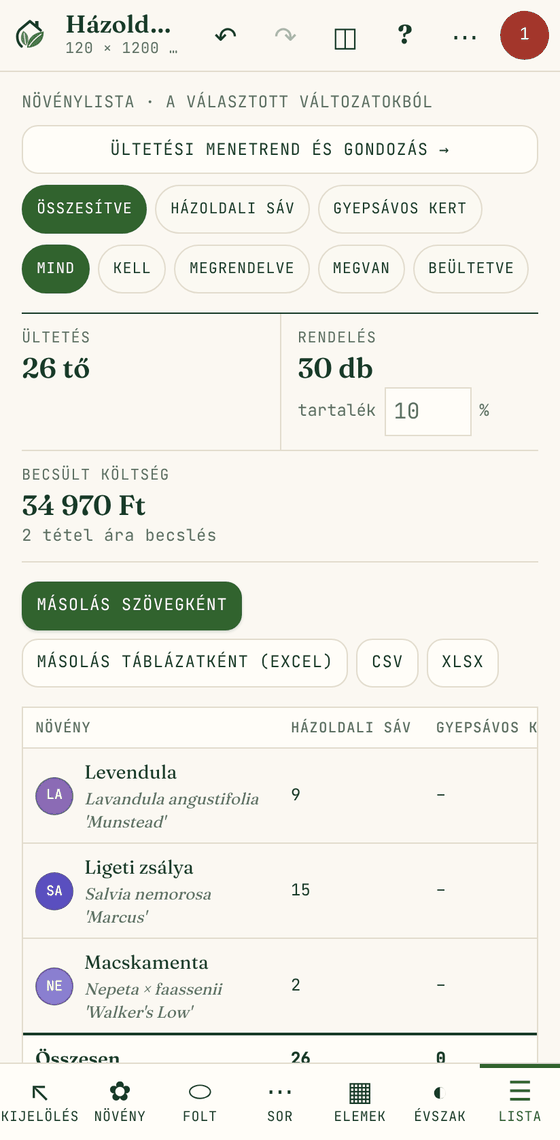
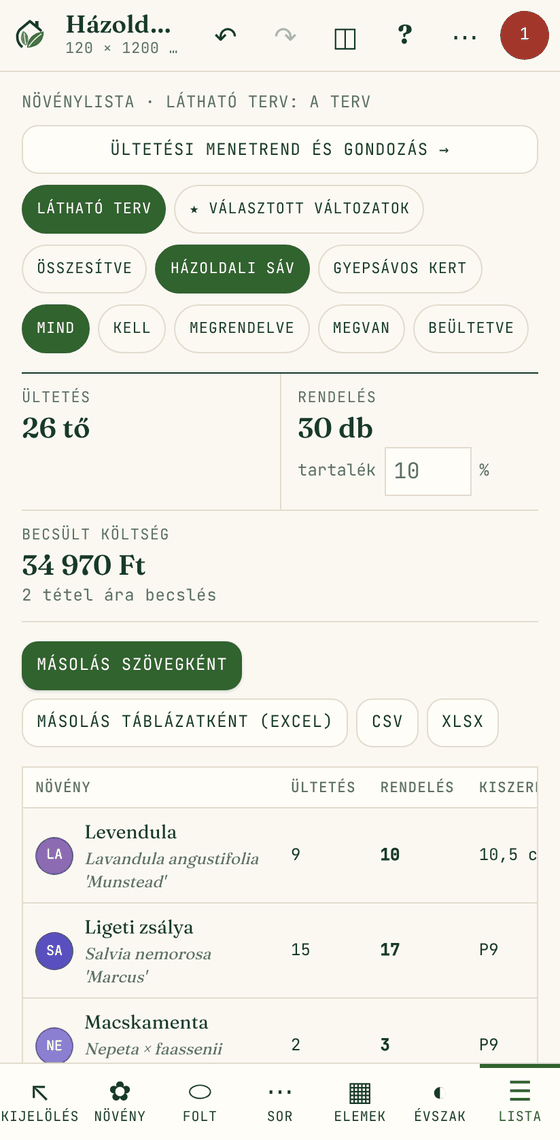
Plant list follows the plan on screen
The List now opens on the current area and counts its shown (edited) variant; the header names it. "★ Chosen variants" switches back to the chosen ones (used for printing); Combined/per-area filters still apply to both.

Claude-Session: https://claude.ai/code/session_015K5A3DUiTyajYS3QgPypRS

diff --git a/src/ui/ListView.tsx b/src/ui/ListView.tsx
@@ -3,7 +3,7 @@ import { bomTable, buildBom, fmtFt, fmtInt, STATUSES, toCsv, toHtmlTable, toText
 import { buildXlsx } from '../engine/xlsx';
 import { JUGLONE_LABEL, plantName, WATER_LABEL } from '../model/plants';
 import type { ItemStatus } from '../model/types';
-import { useProject } from '../store/projectStore';
+import { activeVariant, selectCurrentArea, useProject } from '../store/projectStore';
 import { useUi } from '../store/uiStore';
 import { downloadBlob, downloadText } from './download';
 import { PlantChip } from './PlantChip';
@@ -12,18 +12,22 @@ import { copy } from './clipboard';
 import { t } from '../i18n';
 
 type Scope = 'all' | string;
+type Source = 'shown' | 'chosen';
 
 /** Plant list and shopping (SPEC §4.6). */
 export function ListView() {
   const project = useProject((s) => s.project)!;
-  const [scope, setScope] = useState<Scope>('all');
+  const current = useProject(selectCurrentArea);
+  // Default: the plan on screen – the current area's shown variant.
+  const [scope, setScope] = useState<Scope>(current?.id ?? 'all');
+  const [source, setSource] = useState<Source>('shown');
   const [status, setStatus] = useState<ItemStatus | null>(null);
   const [toast, setToast] = useState('');
   const [fallback, setFallback] = useState('');
   const taRef = useRef<HTMLTextAreaElement>(null);
 
   const areaIds = scope === 'all' ? project.areas.map((a) => a.id) : [scope];
-  const bom = useMemo(() => buildBom(project, areaIds, status), [project, scope, status]);
+  const bom = useMemo(() => buildBom(project, areaIds, status, source), [project, scope, status, source]);
   const table = useMemo(() => bomTable(bom), [bom]);
   const title = scope === 'all' ? project.name : (project.areas.find((a) => a.id === scope)?.name ?? '');
   const fileBase = `${t('novenylista', 'plant-list')}-${title.normalize('NFD').replace(/[̀-ͯ]/g, '').replace(/[^a-zA-Z0-9]+/g, '-').toLowerCase()}`;
@@ -41,7 +45,7 @@ export function ListView() {
   const xlsx = () => {
     const sheets = [{ name: scope === 'all' ? t('Összesen', 'Total') : title, rows: table }];
     if (scope === 'all' && project.areas.length > 1)
-      for (const a of project.areas) sheets.push({ name: a.name, rows: bomTable(buildBom(project, [a.id], status)) });
+      for (const a of project.areas) sheets.push({ name: a.name, rows: bomTable(buildBom(project, [a.id], status, source)) });
     downloadBlob(`${fileBase}.xlsx`, buildXlsx(sheets), 'application/vnd.openxmlformats-officedocument.spreadsheetml.sheet');
   };
 
@@ -58,14 +62,29 @@ export function ListView() {
   };
 
   const perArea = bom.areas.length > 1;
+  const scoped = scope === 'all' ? null : project.areas.find((a) => a.id === scope);
+  const eyebrow =
+    source === 'shown'
+      ? scoped
+        ? t(`Növénylista · látható terv: ${activeVariant(scoped).name}`, `Plant list · plan on screen: ${activeVariant(scoped).name}`)
+        : t('Növénylista · a látható tervekből', 'Plant list · from the plans on screen')
+      : t('Növénylista · a választott változatokból', 'Plant list · from the chosen variants');
 
   return (
     <div className="listview">
       <header className="lv-head">
-        <div className="eyebrow">{t('Növénylista · a választott változatokból', 'Plant list · from the chosen variants')}</div>
+        <div className="eyebrow">{eyebrow}</div>
         <button type="button" className="btn btn-small" onClick={() => useUi.getState().setPage('schedule')}>
           {t('Ültetési menetrend és gondozás →', 'Planting schedule and care →')}
         </button>
+        <div className="seg" role="group" aria-label={t('Melyik változat', 'Which variant')}>
+          <ScopeChip on={source === 'shown'} onClick={() => setSource('shown')}>
+            {t('Látható terv', 'Plan on screen')}
+          </ScopeChip>
+          <ScopeChip on={source === 'chosen'} onClick={() => setSource('chosen')}>
+            {t('★ Választott változatok', '★ Chosen variants')}
+          </ScopeChip>
+        </div>
         <div className="seg" role="group" aria-label={t('Terület', 'Area')}>
           <ScopeChip on={scope === 'all'} onClick={() => setScope('all')}>
             {t('Összesítve', 'Combined')}

diff --git a/tests/e2e/variants.spec.ts b/tests/e2e/variants.spec.ts
@@ -28,9 +28,11 @@ test('variants: copy, edit B, choose, compare', async ({ page }) => {
   await page.mouse.click(b.x + 60 * cm, b.y + 700 * cm);
   await expect(page.locator('.warn-badge')).toHaveText('1');
 
-  // List still shows A (chosen): 11 plants.
+  // The list shows the plan on screen (B, 12 plants); the chosen variants give A (11).
   await page.getByRole('button', { name: 'Lista', exact: true }).click();
-  await page.getByRole('button', { name: 'Házoldali sáv', exact: true }).click();
+  await expect(page.locator('.lv-head .eyebrow')).toContainText('látható terv: B terv');
+  await expect(page.locator('.lv-sum')).toContainText('12 tő');
+  await page.getByRole('button', { name: '★ Választott változatok' }).click();
   await expect(page.locator('.lv-sum')).toContainText('11 tő');
 
   await page.getByRole('button', { name: 'Kijelölés' }).click();
@@ -51,6 +53,7 @@ test('variants: copy, edit B, choose, compare', async ({ page }) => {
   await page.getByRole('button', { name: 'Bezárás' }).last().click();
   await expect(pill).toContainText('B terv ★');
   await page.getByRole('button', { name: 'Lista', exact: true }).click();
+  await page.getByRole('button', { name: '★ Választott változatok' }).click();
   await page.getByRole('button', { name: 'Házoldali sáv', exact: true }).click();
   await expect(page.locator('.lv-sum')).toContainText('12 tő');
 });

diff --git a/src/engine/bom.ts b/src/engine/bom.ts
@@ -36,14 +36,20 @@ export const orderQty = (planted: number, reservePct: number, isTree?: boolean) 
 /** Items of the chosen variant of an area – the plan the list and print are made from. */
 export const chosenItems = (a: Area): PlacedItem[] => (a.variants.find((v) => v.id === a.chosenVariantId) ?? a.variants[0])?.items ?? [];
 
+/** Items of the variant shown on the plan (the edited one). */
+export const shownItems = (a: Area): PlacedItem[] =>
+  (a.variants.find((v) => v.id === (a.activeVariantId ?? a.chosenVariantId)) ?? a.variants[0])?.items ?? [];
+
 /**
  * @param areaIds areas in scope (all when omitted)
  * @param status only count items with this status
+ * @param source 'chosen' variants (default, for print and orders) or the 'shown' ones on the plan
  */
-export function buildBom(project: Project, areaIds?: string[], status?: ItemStatus | null): Bom {
+export function buildBom(project: Project, areaIds?: string[], status?: ItemStatus | null, source: 'chosen' | 'shown' = 'chosen'): Bom {
   const areas = project.areas.filter((a) => !areaIds || areaIds.includes(a.id));
+  const pick = source === 'shown' ? shownItems : chosenItems;
   return bomFromEntries(
-    areas.map((area) => ({ area, items: chosenItems(area) })),
+    areas.map((area) => ({ area, items: pick(area) })),
     project.plantDb,
     project.settings.reservePct,
     status,

diff --git a/tests/unit/bom.test.ts b/tests/unit/bom.test.ts
@@ -45,6 +45,17 @@ describe('bill of materials', () => {
     expect(buildBom(st().project!, [areaId(strip)]).planted).toBe(12);
   });
 
+  it('counts the chosen variant by default, or the one shown on the plan', () => {
+    st().selectArea(areaId(strip));
+    st().addRow('LA', [[60, 0], [60, 400]]); // 11 in A (chosen)
+    const area = () => st().project!.areas[strip];
+    const vb = st().duplicateVariant(area().variants[0].id)!;
+    st().setActiveVariant(vb);
+    st().placePlant('TH', 20, 20); // B: 12
+    expect(buildBom(st().project!, [areaId(strip)]).planted).toBe(11);
+    expect(buildBom(st().project!, [areaId(strip)], null, 'shown').planted).toBe(12);
+  });
+
   it('filters by status and bulk-sets a species status', () => {
     st().selectArea(areaId(strip));
     st().addRow('LA', [[60, 0], [60, 400]]);

diff --git a/tests/e2e/list.spec.ts b/tests/e2e/list.spec.ts
@@ -20,6 +20,7 @@ test('plant list: counts, reserve, copy as table, CSV and XLSX download', async 
   await expect(page.locator('.lv-sum')).toContainText('11 tő');
   await expect(page.locator('.lv-sum')).toContainText('13 db');
 
+  await page.getByRole('button', { name: 'Összesítve' }).click();
   await page.getByLabel('Rendelési tartalék százalékban').fill('20');
   await expect(page.locator('.lv-sum')).toContainText('14 db');
 

diff --git a/docs/UTMUTATO.md b/docs/UTMUTATO.md
@@ -376,12 +376,12 @@ Az **Évszak** eszközzel a rajz a növények valódi színeit mutatja:
 
 <img src="img/07-lista.png" width="280" align="right" alt="Növénylista">
 
-A **Lista** eszköz összesíti a **választott** változatok növényeit:
+A **Lista** eszköz alapból azt a tervet összesíti, **amelyik éppen a rajzon látszik** (az aktuális terület szerkesztett változatát; a fejléc ki is írja a nevét). A **★ Választott változatok** gombbal a választott változatokból készült listára váltasz – ebből készül a nyomtatás is.
 
 - **Ültetés**: hány tő kerül a földbe.
 - **Rendelés**: hány darabot rendelj, **tartalékkal**. A tartalék %-a állítható; a fák nem kapnak tartalékot.
 - **Becsült költség**: a „becsl.” jelölésű árak becslések, a „bolt” jelölésűek valós ajánlatból származnak.
-- **Szűrés**: *Összesítve* vagy területenként; állapot szerint (*kell, megrendelve, megvan, beültetve*).
+- **Szűrés**: *Látható terv* vagy *★ Választott változatok*; *Összesítve* vagy területenként; állapot szerint (*kell, megrendelve, megvan, beültetve*).
 - **Állapot**: a táblázatban fajonként egyszerre állítható.
 - **Másolás szövegként**: üzenetbe, e-mailbe.
 - **Másolás táblázatként (Excel)**: beillesztve helyes oszlopokat ad.

diff --git a/docs/GUIDE.md b/docs/GUIDE.md
@@ -376,12 +376,12 @@ An image (PNG/SVG) made from the season view uses that month’s colours.
 
 <img src="img/en/07-lista.png" width="280" align="right" alt="Plant list">
 
-The **List** tool totals the plants of the **chosen** variants:
+By default the **List** tool totals **the plan currently on screen** (the edited variant of the current area; the header shows its name). **★ Chosen variants** switches to the list made from the chosen variants – the printout uses those too.
 
 - **Planting**: how many plants go in the ground.
 - **Order**: how many to order, with a **spare**. The spare % can be set; trees get none.
 - **Estimated cost**: prices marked “est.” are estimates, those marked “shop” come from real offers. Prices are in HUF.
-- **Filter**: *Combined* or per area; by status (*needed, ordered, have it, planted*).
+- **Filter**: *Plan on screen* or *★ Chosen variants*; *Combined* or per area; by status (*needed, ordered, have it, planted*).
 - **Status**: can be set for a whole species at once in the table.
 - **Copy as text**: for messages and e-mail.
 - **Copy as table (Excel)**: pastes into the right columns.
